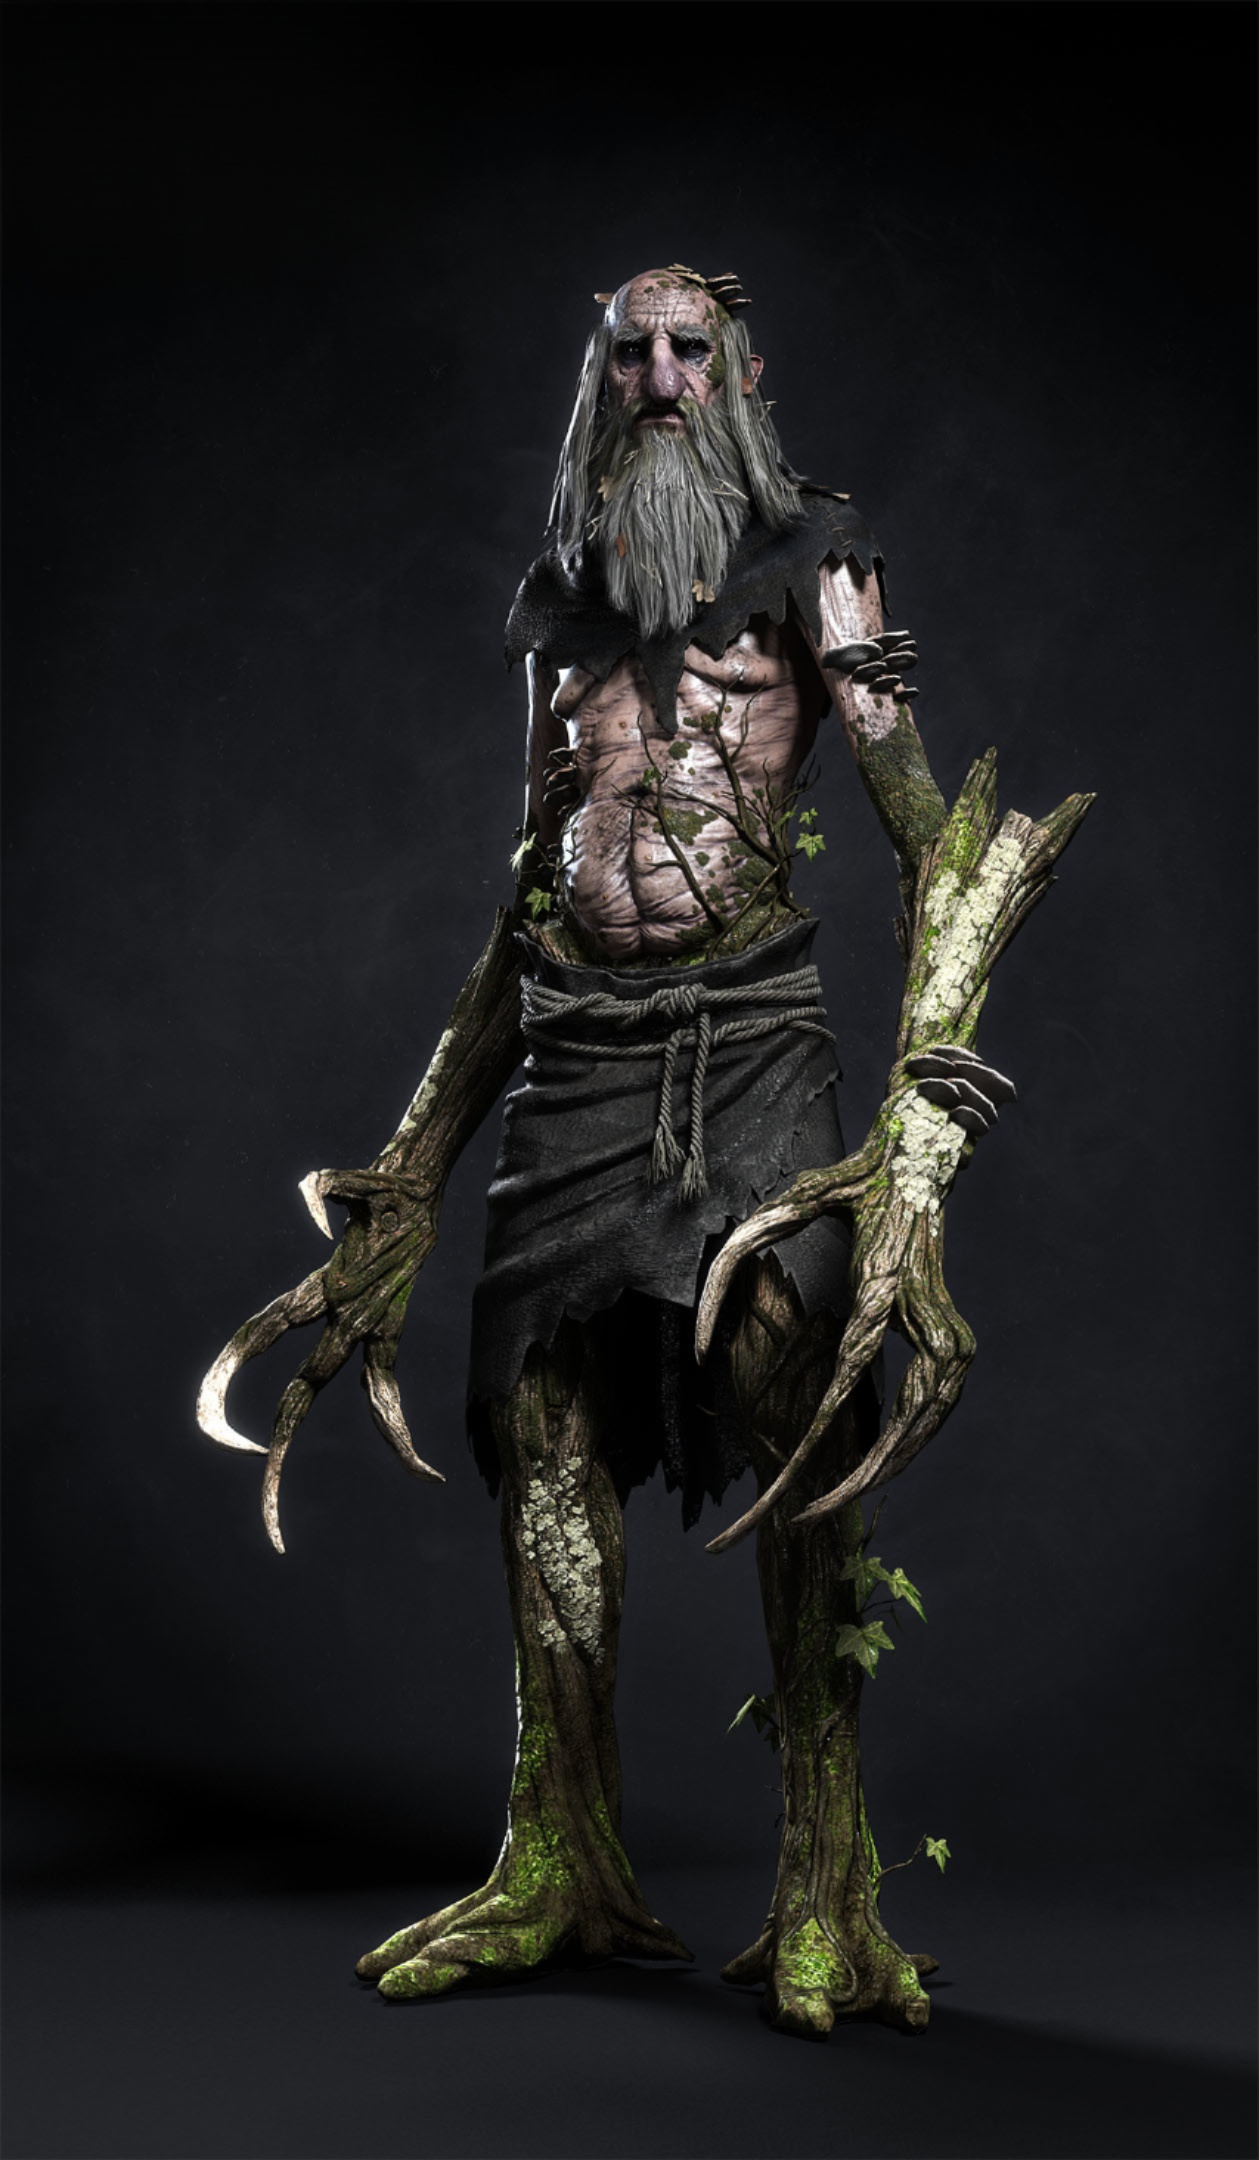
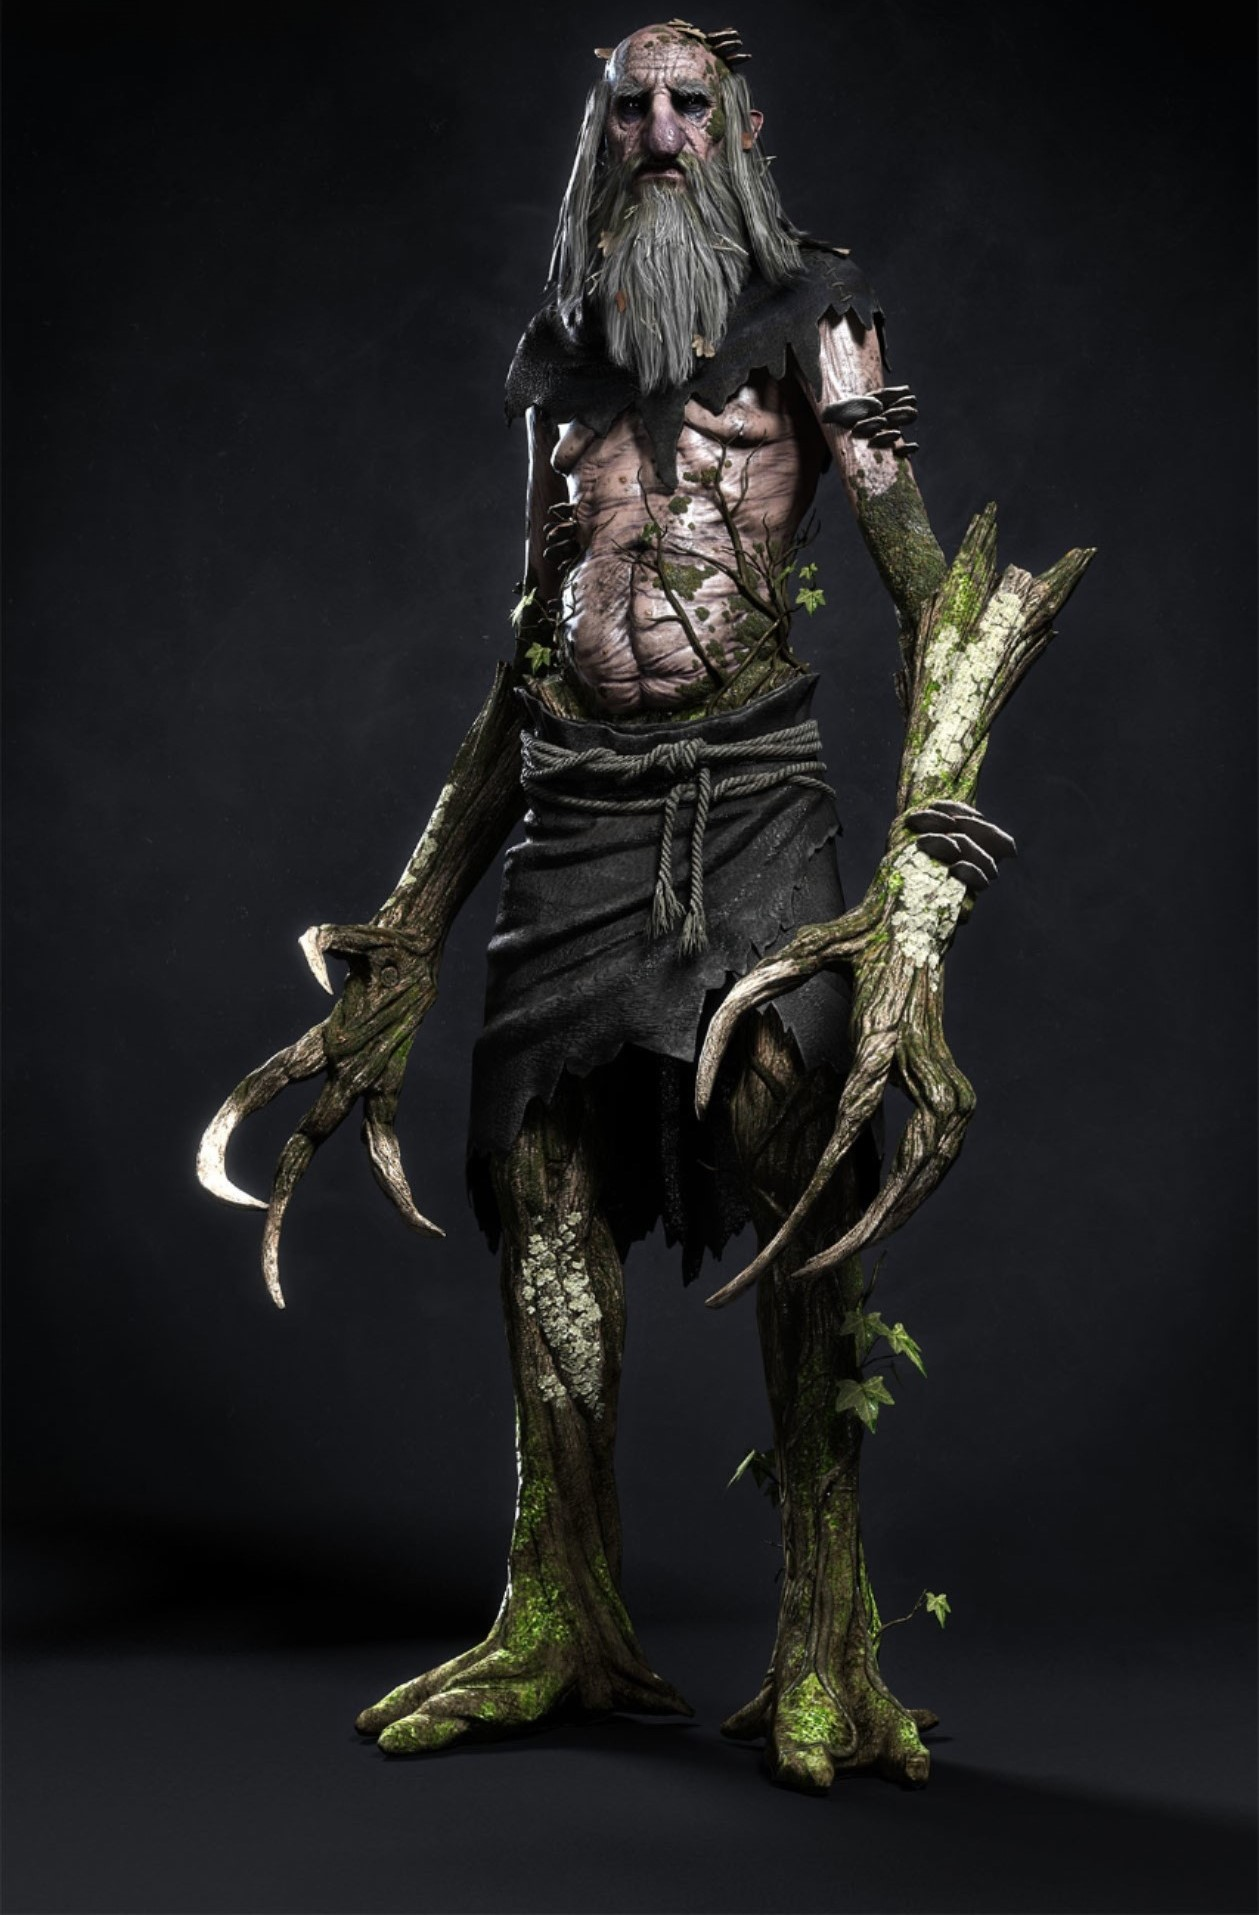
fisGall

Changed region(s): [[0.1549, 0.0, 0.8674, 0.9551]]

diff --git a/src/js/page-borovik/borovik.js b/src/js/page-borovik/borovik.js
@@ -8,7 +8,7 @@ import borovik2 from '../../images/page-borovik/borovik-item-2.jpg';
 import borovik3 from '../../images/page-borovik/borovik-item-3.jpg';
 
 import spriggan from '../../images/beasts-witcher/spriggan.jpg';
-import spriggan2 from '../../images/page-borovik/borovik-witcher-item-2.jpg';
+import spriggan2 from '../../images/page-borovik/borovik-witcher-item-2.png';
 import spriggan3 from '../../images/page-borovik/borovik-witcher-item-3.jpg';
 
 
@@ -20,8 +20,14 @@ const galleryBorovikSection = document.querySelector('.js-gallery-borovik-sectio
 
 // ------backdrop-borovik-gallery------------------
 const borovikGallery = document.querySelector('.js-backdrop-borovik-gallery');
+const borovikGalleryWicher = document.querySelector('.js-backdrop-borovik-gallery-wicher');
+
+
 const borovikGalleryBigImg = document.querySelector('.js-borovik-modal-img');
+const borovikGalleryBigImgWich = document.querySelector('.js-borovik-modal-img-wich');
+
 const borovikGalleryBtnclose = document.querySelector('.js-backdrop-close');
+const borovikGalleryBtncloseWich = document.querySelector('.js-backdrop-close-wich');
 
 // ----/--backdrop-borovik-gallery------------------
 
@@ -40,6 +46,8 @@ function onCreateMarcupUkr () {
   document.querySelector('.js-gallery-btn-wich').addEventListener('click', () => {
     onCreateMarcupWitcher();
   });
+
+  // -----------backdrop-logic-------------------
 
   const galleryBorovikUrk = document.querySelector('.js-gallery-borovik-urk');
 
@@ -201,7 +209,59 @@ function onCreateMarcupWitcher (e) {
   document.querySelector('.js-gallery-btn-ukr').addEventListener('click', () => {
     onCreateMarcupUkr();
   });
+
+  // -----------backdrop-logic-------------------
+
+  const galleryBorovikWich = document.querySelector('.js-gallery-borovik-wich');
+
+  galleryBorovikWich.addEventListener('click', (e) => {
+    const { target } = e;
+
+    const bigImgId = Number(target.dataset.id);
+
+    if (target.tagName !== 'IMG') return;
+
+    borovikGalleryWicher.classList.remove('backdrop-borovik-gallery--hidden');
+
+    borovikGalleryBigImgWich.src = target.src;
+
+    // --------small-gallery-----------
+
+    const smallGalleryItem = document.querySelector('.js-small-gallery-wich');
+
+    smallGalleryItem.addEventListener('click', (e) => {
+      const { target, currentTarget } = e;
+
+      if (target.tagName !== 'IMG') return;
+
+      borovikGalleryBigImgWich.src = target.src;
+
+      [...currentTarget.children].forEach((li) => {
+        if (li.classList.contains('small-img-active')) {
+          li.classList.remove('small-img-active');
+        }
+      });
+
+      target.closest('.small-gallery__item').classList.add('small-img-active');
+    });
+
+    [...smallGalleryItem.children].forEach((li) => {
+      const liId = Number(li.dataset.id);
+
+      if (li.classList.contains('small-img-active')) {
+        li.classList.remove('small-img-active');
+      }
+
+      if (liId === bigImgId) {
+        li.classList.add('small-img-active');
+      }
+    });
+  });
 };
+
+borovikGalleryBtncloseWich.addEventListener('click', () => {
+  borovikGalleryWicher.classList.add('backdrop-borovik-gallery--hidden');
+});
 
 function createMarcupWicher () {
   return `
@@ -325,19 +385,19 @@ function createGalleryBorovikWicher () {
 <p><a class="gallery-borovik__link" href="#">Подивитись всі</a></p>
 </div>
 
-<ul class="gallery-borovik__list">
-<li class="gallery-borovik__item gallery-borovik__item-col">
-  <img class="gallery-borovik__img gallery-borovik__img-col gallery-borovik__img-wicher_col"
-    src="${spriggan}" alt="spriggan">
-</li>
-<li class="gallery-borovik__item">
-  <img class="gallery-borovik__img gallery-borovik__img-wicher_row"
-    src="${spriggan2}" alt="borovik-witcher-item-2">
-</li>
-<li class="gallery-borovik__item gallery-borovik__item-row">
-  <img class="gallery-borovik__img gallery-borovik__img-row gallery-borovik__img-wicher_row"
-    src="${spriggan3}" alt="borovik-witcher-item-3">
-</li>
+<ul class="gallery-borovik__list js-gallery-borovik-wich">
+  <li class="gallery-borovik__item gallery-borovik__item-col">
+    <img data-id="1" class="gallery-borovik__img gallery-borovik__img-col gallery-borovik__img-wicher_col"
+      src="${spriggan}" alt="spriggan">
+  </li>
+  <li class="gallery-borovik__item">
+    <img data-id="2" class="gallery-borovik__img gallery-borovik__img-wicher_row"
+      src="${spriggan2}" alt="borovik-witcher-item-2">
+  </li>
+  <li class="gallery-borovik__item gallery-borovik__item-row">
+    <img data-id="3" class="gallery-borovik__img gallery-borovik__img-row gallery-borovik__img-wicher_row"
+      src="${spriggan3}" alt="borovik-witcher-item-3">
+  </li>
 </ul>
 
 <button class="gallery-borovik__btn js-gallery-btn-ukr" type="button">В укр. міфології</button>`;

diff --git a/src/partials/bestiary/page-borovik/backdrop-gallery-wicher.html b/src/partials/bestiary/page-borovik/backdrop-gallery-wicher.html
@@ -1,0 +1,64 @@
+<div class="backdrop-borovik-gallery js-backdrop-borovik-gallery-wicher backdrop-borovik-gallery--hidden">
+
+  <div class="nav-btn-container container">
+    <div class="container__inner">
+      <button class="nav-btn-container__btn nav-btn-container__btn_arr js-backdrop-close-wich">
+        <svg class="nav-btn-container__icon">
+          <use href="./images/sprite.svg#icon-arrow-btn-left"></use>
+        </svg>
+      </button>
+
+      <div class="nav-btn-container__btn-box">
+
+        <a href="#" class="nav-btn-container__btn">
+          <svg class="nav-btn-container__icon nav-btn-container__icon_small">
+            <use href="./images/sprite.svg#icon-btn-plus"></use>
+          </svg>
+        </a>
+
+        <a href="#" class="nav-btn-container__btn">
+          <svg class="nav-btn-container__icon">
+            <use href="./images/sprite.svg#icon-btn-minus"></use>
+          </svg>
+        </a>
+
+        <a href="#" class="nav-btn-container__btn">
+          <svg class="nav-btn-container__icon nav-btn-container__icon_small">
+            <use href="./images/sprite.svg#icon-container"></use>
+          </svg>
+        </a>
+
+        <a href="#" class="nav-btn-container__btn">
+          <svg class="nav-btn-container__icon">
+            <use href="./images/sprite.svg#icon-toggleable-dark"></use>
+          </svg>
+        </a>
+
+      </div>
+    </div>
+  </div>
+
+  <div class="container backdrop-borovik__container">
+
+    <div class="borovik-modal borovik-modal_wich js-borovik-modal">
+      <img class="borovik-modal__img borovik-modal__img_wich js-borovik-modal-img-wich" src="#" alt="404">
+    </div>
+
+    <ul class="backdrop-borovik-gallery_small small-gallery small-gallery_wich js-small-gallery-wich">
+      <li class="small-gallery__item" data-id="1">
+        <img class="small-gallery__img small-gallery__img_wich" src="./images/page-borovik/borovik-wich-gif.gif"
+          alt="1">
+      </li>
+      <li class="small-gallery__item" data-id="2">
+        <img class="small-gallery__img small-gallery__img_wich" src="./images/page-borovik/borovik-witcher-item-2.png"
+          alt="2">
+      </li>
+      <li class="small-gallery__item" data-id="3">
+        <img class="small-gallery__img small-gallery__img_wich" src="./images/page-borovik/borovik-witcher-item-3.jpg"
+          alt="3">
+      </li>
+    </ul>
+
+  </div>
+
+</div>

diff --git a/src/sass/layout/page-borovik/_page-borovik.scss b/src/sass/layout/page-borovik/_page-borovik.scss
@@ -1,3 +1,7 @@
+.main-borovik {
+  background-color: #242424;
+}
+
 .borovik-section {
   padding-bottom: 100px;
 }
@@ -104,10 +108,6 @@
   &-ukr {
     object-position: center 40%;
   }
-
-  // @media (min-width: 790px) {
-  //   max-height: 332px;
-  // }
 }
 
 // ---/-----IMAGE --------
@@ -484,8 +484,6 @@
   }
 }
 
-.borovik__btn-prev {}
-
 .borovik__btn-next {
   color: var(--accent-text-color);
 }
@@ -537,16 +535,6 @@
   }
 }
 
-// .borovik-witcher__data {}
-
-// ----gallery-borovik--section_wicher-
-// .gallery-borovik__section_wicher {
-//   @media (min-width: 1200px) {
-//     // padding-top: 50px;
-//   }
-
-// }
-
 .gallery-borovik {
   width: 100%;
 }
@@ -556,5 +544,5 @@
 }
 
 .gallery-borovik__img-wicher_row {
-  object-position: center 14%;
+  object-position: center top;
 }

diff --git a/src/page-borovik.html b/src/page-borovik.html
@@ -17,7 +17,7 @@
 <body>
   <include src="./partials/bestiary/header-bestiary.html"></include>
 
-  <main class="main">
+  <main class="main-borovik">
     <include src="./partials/bestiary/page-borovik/nav-container.html"></include>
     <include src="./partials/bestiary/page-borovik/borovik-section.html"></include>
 
@@ -39,8 +39,10 @@
   <!-- backdrop-search -->
   <include src="./partials/backdrop-form-search.html"></include>
   <!--/ backdrop-search -->
+
   <!-- backdrop-gallery -->
   <include src="./partials/bestiary/page-borovik/backdrop-gallery.html"></include>
+  <include src="./partials/bestiary/page-borovik/backdrop-gallery-wicher.html"></include>
   <!--/ backdrop-gallery -->
 
   <!-- ------/-common-el------------------------------- -->

diff --git a/src/sass/components/_backdrop-gallery.scss b/src/sass/components/_backdrop-gallery.scss
@@ -35,7 +35,7 @@
 .borovik-modal {
   width: 100%;
   max-width: 770px;
-  height: 70dvh;
+  height: 74dvh;
   background-color: #fff;
 }
 
@@ -52,8 +52,6 @@
 
     object-fit: cover;
     cursor: pointer;
-
-
 
     @media (min-width: 790px) {
       width: 72px;
@@ -77,4 +75,20 @@
   object-fit: cover;
   object-position: center 35%;
   height: 100%;
+}
+
+// ------backdrop-borovik-gallery-wicher----------
+
+.small-gallery__img_wich {
+  object-position: top;
+  object-fit: cover;
+}
+
+// .small-gallery_wich>li:last-child>img {
+//   object-position: center 20%;
+// }
+
+.borovik-modal__img_wich {
+  object-position: center top;
+  object-fit: cover;
 }
